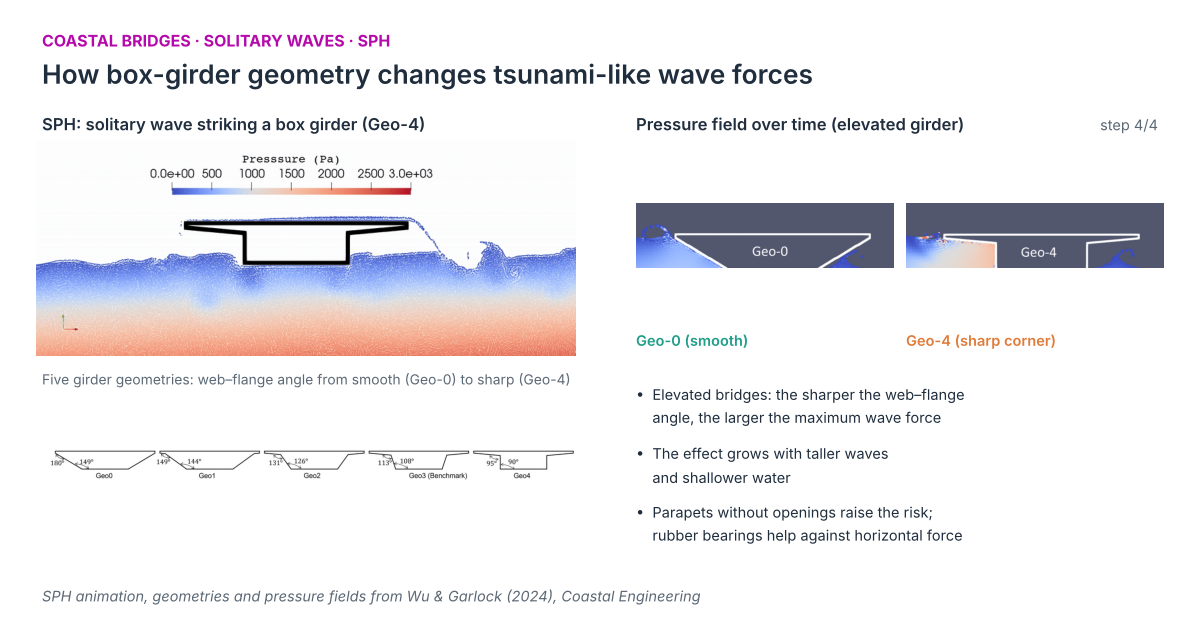
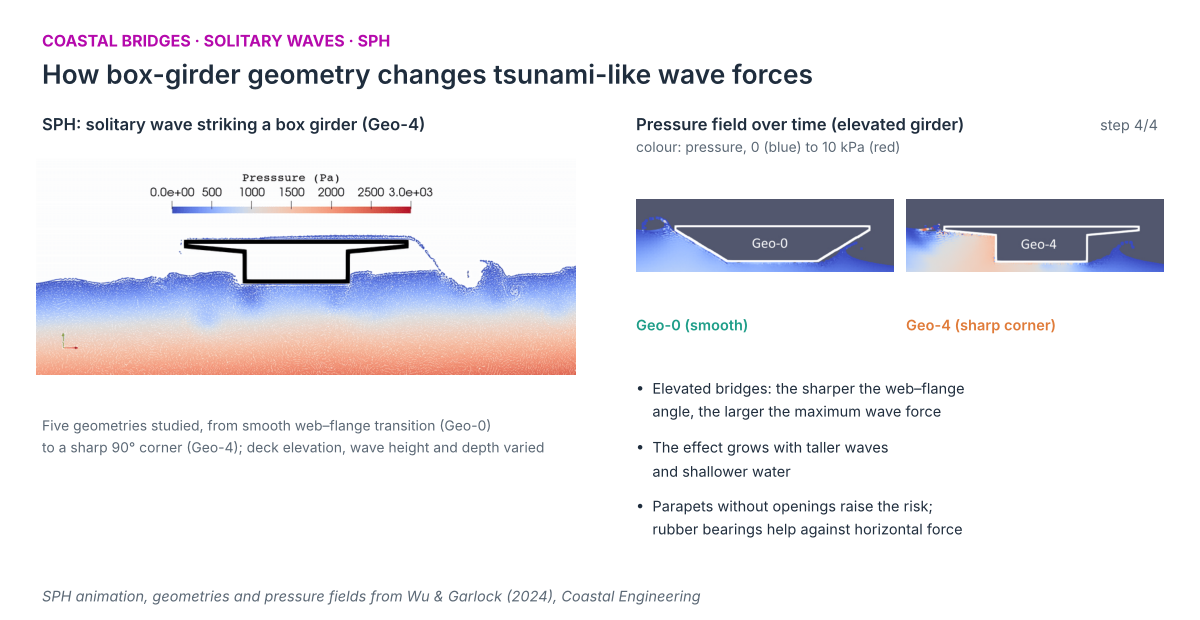
Fix cropped panels in 2022/2024 abstracts; animate breakwater sections in MOBO abstract
Claude-Session: https://claude.ai/code/session_01KQ5gVpxi52AmFkk6va2d8k

diff --git a/bin/graphical_abstracts/r_bayes.py b/bin/graphical_abstracts/r_bayes.py
@@ -3,7 +3,14 @@ from ga_style import *
 from PIL import Image
 d = np.load("ga/bo_samples.npz"); P = d["p"]          # digitized Fig. 15c: force (kN/m), kt, iteration
 eta = np.load("ga/bo_eta.npy", allow_pickle=True).item()  # digitized Fig. 17
-rect = np.asarray(Image.open("ga/sph_rect.png")); opt = np.asarray(Image.open("ga/sph_opt.png"))
+from matplotlib.patches import Polygon
+def bez(P, n=40):
+    P = np.array(P, float); t = np.linspace(0, 1, n)[:, None]; from math import comb
+    return sum(comb(4, i) * t ** i * (1 - t) ** (4 - i) * P[i] for i in range(5))
+RECT = np.array([(-5, 2.5), (5, 2.5), (5, -2.5), (-5, -2.5)])
+side = bez([(5, 2.5), (1.2, 1.2), (0.9, 0.0), (1.4, -1.3), (5, -2.5)])   # concave "X" side (approx. Design-3)
+OPT = np.vstack([[(-5, 2.5)], side, (side * [-1, 1])[::-1]])
+lam = 48.0; kt = {"rect": 0.62, "opt": 0.10}     # T = 6 s, d = 10 m; kt from Fig. 10b
 vir = plt.get_cmap("viridis")
 def front(Q):
     keep = [i for i, p in enumerate(Q) if not any((q[:2] <= p[:2]).all() and (q[:2] < p[:2]).any() for q in Q)]
@@ -35,12 +42,20 @@ for f in range(nF + hold):
     a2.set_xlim(15, 40); a2.set_ylim(8.9, 11.2); a2.set_yticks([9, 10, 11]); a2.set_xlabel("Time (s)", fontsize=10); a2.set_ylabel("η (m)", fontsize=10)
     a2.legend(frameon=False, fontsize=9, ncol=3, loc="upper left", bbox_to_anchor=(0, 1.2))
     fig.text(0.53, 0.8, "Water level behind the structure  (H = 1.8 m, T = 6 s)", fontsize=12, fontweight="semibold", color=INK)
-    for j, (img, lab, c) in enumerate([(rect, "Rectangular box", MUTED), (opt, "Optimized shape", ACCENT)]):
-        ai = fig.add_axes([0.53 + j * 0.225, 0.2, 0.205, 0.18]); ai.imshow(img); ai.axis("off")
-        fig.text(0.53 + j * 0.225, 0.385, lab, fontsize=10.5, fontweight="semibold", color=c)
-    for i, (big, small) in enumerate([("60%", "better wave attenuation (single objective)"), ("73.1%", "time saved with parallel SPH")]):
+    ph = 2 * np.pi * f / 22
+    for j, (shape, key, lab, c) in enumerate([(RECT, "rect", "Rectangular box", INK), (OPT, "opt", "Optimized shape", ACCENT)]):
+        ai = fig.add_axes([0.53 + j * 0.225, 0.155, 0.21, 0.2])
+        X = np.linspace(-20, 20, 300); amp = np.where(X < -5, 1.4, 1.4 * kt[key])
+        eta_ = amp * np.cos(2 * np.pi * X / lam * 2.2 - ph)
+        ai.fill_between(X, -5, eta_, color="#5d93cf", alpha=0.75, lw=0)
+        ai.plot(X, eta_, color="#173b65", lw=1)
+        ai.add_patch(Polygon(shape, closed=True, fc="#d5dbe2", ec=INK, lw=1.2, zorder=3))
+        ai.set_xlim(-20, 20); ai.set_ylim(-5, 3.6); ai.set_aspect("equal"); ai.axis("off")
+        fig.text(0.53 + j * 0.225, 0.375, lab, fontsize=10.5, fontweight="semibold", color=c)
+        fig.text(0.53 + j * 0.225 + 0.21, 0.375, f"kₜ = {kt[key]:.2f}", fontsize=10, color=c, ha="right")
+    for i, (big, small) in enumerate([("60%", "better attenuation"), ("73%", "less compute time")]):
         x = 0.53 + i * 0.225
-        fig.text(x, 0.11, big, fontsize=18, fontweight="bold", color=ACCENT); fig.text(x, 0.085, small, fontsize=9, color=INK, va="top")
-    footer(fig, "Samples and water levels digitized from Wu, Smith & Garlock (2026), Engineering Structures, Figs. 15c, 17 & 19")
+        fig.text(x, 0.1, big, fontsize=15, fontweight="bold", color=ACCENT); fig.text(x + 0.055, 0.112, small, fontsize=10, color=INK, va="center")
+    footer(fig, "Samples and water levels digitized from Wu, Smith & Garlock (2026), Engineering Structures, Figs. 10b, 15c & 17 · wave sketch schematic, shape approximate")
     frames.append(grab(fig)); plt.close(fig)
 save(frames, "wu2026bayes", durations=90)

diff --git a/bin/graphical_abstracts/r_ce2024.py b/bin/graphical_abstracts/r_ce2024.py
@@ -16,17 +16,17 @@ for f in range(n * 3):
     k = min(3, (f * 4) // (n * 3))
     fig = new_fig()
     header(fig, "Coastal bridges · solitary waves · SPH", "How box-girder geometry changes tsunami-like wave forces")
-    ax = fig.add_axes([0.03, 0.42, 0.45, 0.36]); ax.imshow(src[f % n]); ax.axis("off")
+    ax = fig.add_axes([0.03, 0.36, 0.45, 0.42]); ax.imshow(src[f % n]); ax.axis("off")
     fig.text(0.035, 0.79, "SPH: solitary wave striking a box girder (Geo-4)", fontsize=12, fontweight="semibold", color=INK)
-    ag = fig.add_axes([0.03, 0.15, 0.45, 0.2]); ag.imshow(geos); ag.axis("off")
-    fig.text(0.035, 0.38, "Five girder geometries: web–flange angle from smooth (Geo-0) to sharp (Geo-4)", fontsize=10, color=MUTED)
+    fig.text(0.035, 0.33, "Five geometries studied, from smooth web–flange transition (Geo-0)\nto a sharp 90° corner (Geo-4); deck elevation, wave height and depth varied", fontsize=10, color=MUTED, va="top", linespacing=1.3)
     fig.text(0.53, 0.79, "Pressure field over time (elevated girder)", fontsize=12, fontweight="semibold", color=INK)
+    fig.text(0.53, 0.755, "colour: pressure, 0 (blue) to 10 kPa (red)", fontsize=10, color=MUTED)
     fig.text(0.965, 0.79, f"step {k + 1}/4", fontsize=10.5, color=MUTED, ha="right")
     for j, (img, lab, c) in enumerate([(g0[k], "Geo-0 (smooth)", TEAL), (g4[k], "Geo-4 (sharp corner)", ORANGE)]):
-        a = fig.add_axes([0.53 + j * 0.225, 0.47, 0.215, 0.3]); a.imshow(img); a.axis("off")
-        fig.text(0.53 + j * 0.225, 0.465, lab, fontsize=10.5, fontweight="semibold", color=c, va="top")
+        a = fig.add_axes([0.53 + j * 0.225, 0.5, 0.215, 0.24]); a.imshow(img); a.axis("off")
+        fig.text(0.53 + j * 0.225, 0.49, lab, fontsize=10.5, fontweight="semibold", color=c, va="top")
     for i, t in enumerate(finds):
-        fig.text(0.53, 0.38 - i * 0.095, "•  " + t.replace("\n", "\n    "), fontsize=10.5, color=INK, va="top", linespacing=1.3)
+        fig.text(0.53, 0.39 - i * 0.095, "•  " + t.replace("\n", "\n    "), fontsize=10.5, color=INK, va="top", linespacing=1.3)
     footer(fig, "SPH animation, geometries and pressure fields from Wu & Garlock (2024), Coastal Engineering")
     frames.append(grab(fig)); plt.close(fig)
 save(frames, "wu2024coastal", durations=110, static_index=n * 3 - 2)

diff --git a/bin/graphical_abstracts/r_es2022.py b/bin/graphical_abstracts/r_es2022.py
@@ -27,7 +27,7 @@ for f in range(n):
     fig.text(0.17, 0.13, "SPH pressure  →  mapped to shells  →  FEM demands", fontsize=10.5, color=ACCENT, fontweight="semibold")
     fig.text(0.53, 0.79, "Normalized wave pressure on the shell (SPH)", fontsize=12, fontweight="semibold", color=INK)
     fig.text(0.53, 0.755, f"{labs[k]} · flat → increasingly warped hypar", fontsize=10.5, color=ACCENT if k == 2 else MUTED)
-    am = fig.add_axes([0.52, 0.42, 0.45, 0.32]); am.imshow(maps[k]); am.axis("off")
+    am = fig.add_axes([0.52, 0.4, 0.46, 0.34]); am.imshow(maps[k]); am.axis("off")
     for i, t in enumerate(finds):
         fig.text(0.53, 0.36 - i * 0.095, "•  " + t.replace("\n", "\n    "), fontsize=10.5, color=INK, va="top", linespacing=1.3)
     footer(fig, "SPH animation and pressure maps from Wu, Garlock & Wang (2022), Engineering Structures")
